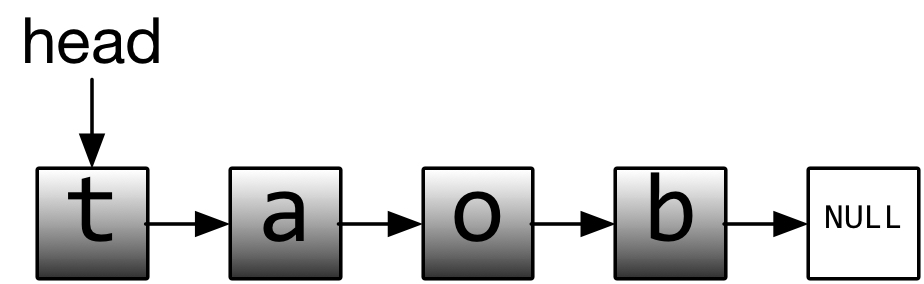
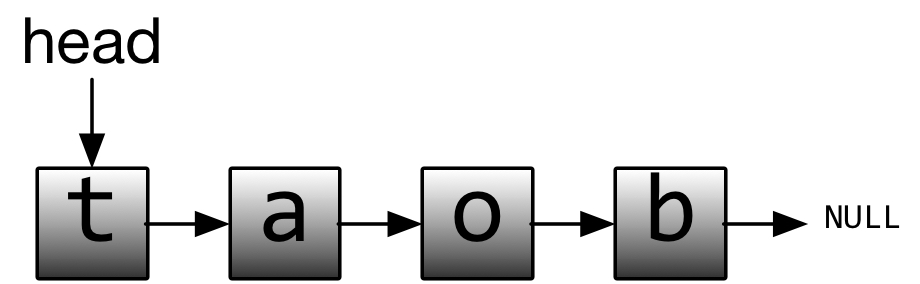
Sentinel chapter: Polish words, images, and code

diff --git a/the-last-mile/sentinels/sentinels.tex b/the-last-mile/sentinels/sentinels.tex
@@ -271,14 +271,14 @@ delete a node.
 When deleting a node from a linked list, one need to consider if the node to be deleted could
 possibly be the `head' node.
 If so, one need extra effort in order to get the operation done correctly.
-In fact deleting node of linked list in C is such a big deal that it often takes
-a doubly-indirect pointer \code{Node** header} to be passed in the function \code{deleteNode} as
-shown in ~\autoref{lst:deleteNode} which I believe is not unfarmiliar for those with C programming
-background.
-\lstinputlisting[label={lst:deleteNode},
-caption={Delete node in linked list.}]
-{sentinels/delete_node.cc}
-\begin{figure}[htb]
+In fact deleting node of linked list in C is such a big deal that functions often take
+a doubly-indirect pointer \code{Node** header} as argument as shown in the below function signature.
+\begin{lstlisting}
+    void delete(NODE** header, NODE* node);
+\end{lstlisting}
+This should not be unfamiliar with most C programmers.
+
+\begin{figure}
     \centering
     \begin{subfigure}{.3\textwidth}
         \includegraphics[width=\textwidth]{sentinels/revert_linked_list_happy_case.jpg}
@@ -311,8 +311,8 @@ the problem is depicted, and the resulting linked list is also given, all in
 %alike require special handling, because.
 %This caused a lot of coding fragmentation.
 If you try to solve the problem literally according to the algorithm,
-then the code may going to look like ~\autoref{lst:ValidWordAbbrev}.
-\lstinputlisting[label={lst:ValidWordAbbrev},
+then the code may going to look like ~\autoref{lst:revertLinkedList}.
+\lstinputlisting[label={lst:revertLinkedList},
 caption={Code for validating abbreviation of a word with use of sentinel.}]
 {sentinels/reverse_linked_list.py}
 It may not be the case for many that they come to this solution on their first attempt.
@@ -327,27 +327,31 @@ You may have noticed that I choose to snapshot the algorithm when there
 are a visible stack of nodes on the \code{newHead} and a visible queue of
 nodes on \code{oldHead} remaining to be processed.
 I do this for the purpose of suggesting the `flow', the momentum of the algorithm---that nodes
-are transferred from the old pile to the new in so and so way.
+are being transferred from the old pile to the new in so and so way.
 the motion when both piles has no mass and that may obstruct the
 
 I didn't snapshot the algorithm at the beginning or end because that way the onus is on the readers
 to imagine part of the
 motion picture---the missing pile to detach from or attach to the node in transit.
-You see that human imagination requires a nuclus, a starting point, a stub to begin with.
-Unfortunately with a cold start, we don't have such a luxury.
-But we can create one.
+You see that human imagination flows well with a nucleus, a starting point, a stub to begin with.
+A cold start is always harder than a hot one.
+Unfortunately at the beginning of the algorithm it is always going to be a cold start and we don't
+have such a luxury.
+But we can create one, can't we?
 We can artificially place an anchoring sentinel node and assign it to the \code{newHead}.
-Then everything else will `flow'.
+Then we have a `nucleus' to begin with and the rest of the task all of a sudden seems intuitive,
+the momentum is built up, and the `flow' is started.
+\lstinputlisting[label={lst:revertLinkedList.sentinel},
+caption={Code for validating abbreviation of a word with use of sentinel.}]
+{sentinels/reverse_linked_list_sentinel.py}
 The benefits are two-fold.
-For one, it will unleashes our imagination power about how the algorithm works.
+For one, it unleashes our imagination power about how the algorithm works.
 It also frees up our mind from worrying about `null-pointer exception' so that it can focus on
 the `flow', the momentum part of the algorithm.
 This is the psychological benefit.
 For other, it simplifies our coding task---our code doesn't need to deal with the case when
 \code{newHead == None}.
-This is reflected in simpler code.
-This confirms, from another perspective, that a cold start is always harder than a hot one,
-that sustaining a fire is much easier than starting a fire.
+This is reflected in the simpler code in ~\autoref{lst:ValidWordAbbrev.sentinel}.
 
 Some elaboration on sentinels.
 The working of sentinels has physical corroborations in nature.
